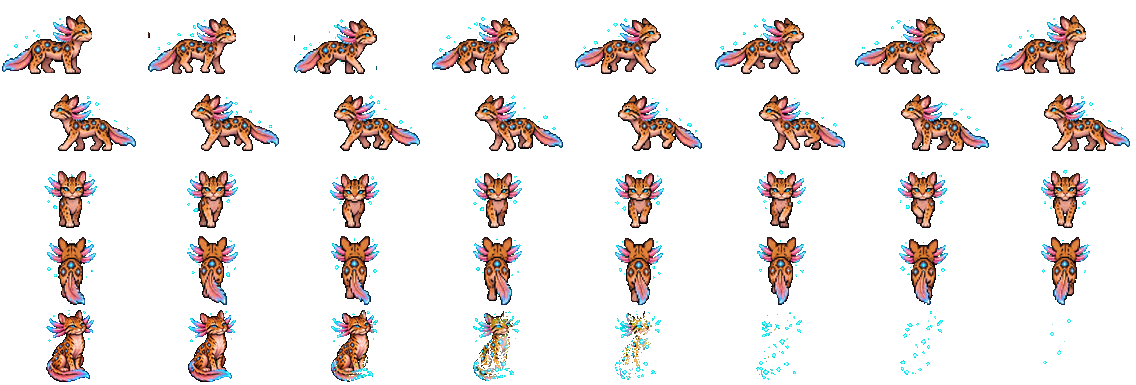
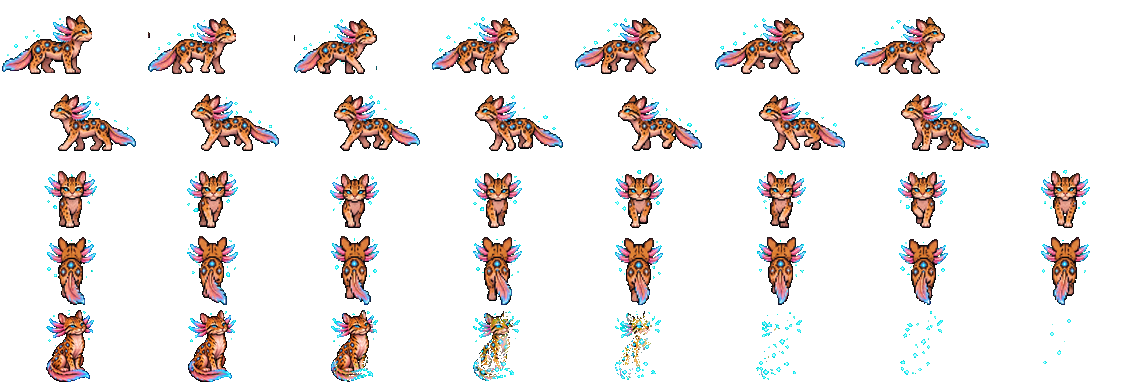
Support 6-frame walk sets alongside Eli's 8
Clips can give a cycle (seconds per loop) instead of fps, so a walk keeps
its pace whatever its frame count. walkClips(frames, cycle) builds the four
walk clips for a sheet in the house layout, and the Chapter 6 characters use
it. The prep script takes a frame count per row and leaves unused cells empty.

Claude-Session: https://claude.ai/code/session_0152bnL1PqBVyUQ9ahW2XuFx

Changed region(s): [[0.8935, 0.2494, 1.0, 0.4052], [0.8627, 0.0312, 0.9551, 0.187]]

diff --git a/src/sprite-definitions.js b/src/sprite-definitions.js
@@ -8,6 +8,13 @@ export const RABBIT_FRAMES=[
  [14,335,34,32],[70,310,33,54],[126,306,32,58],[183,303,30,61],
  [23,373,25,65],[78,373,25,65],[133,373,25,65]
 ];
+// Walk clips for a sheet in the house layout: rows right, left, toward the camera, away, 8 columns wide.
+// frames is how many frames each row holds (Eli has 8; everyone else is drawn with 6). cycle is the seconds per stride
+// loop, so the pace stays the same whatever the frame count. A side row can hold fewer frames than the others.
+export function walkClips(frames,cycle){
+ const rows=Array.isArray(frames)?frames:[frames,frames,frames,frames];
+ return Object.fromEntries(['right','left','down','up'].map((dir,r)=>[`walk:${dir}`,{frames:Array.from({length:rows[r]},(_,i)=>r*8+i),cycle}]));
+}
 export const SPRITES={
  // The second rows are runs, used by the guardian familiars. Both sheets face right; the village creatures stay on idle.
  rimejaw:{asset:'story/rimejaw-sheet.png',chromaKey:'green',frames:[[45,35,410,270],[475,35,410,270],[900,35,410,270],[1320,35,440,270],[10,330,292,225],[302,330,292,225],[598,330,292,225],[886,330,292,225],[1174,330,292,225],[1468,330,292,225]],scale:.27,anchor:[.5,1],offset:[0,12],mirror:'right',animations:{idle:{frames:[0,1,2,3],fps:2},walk:{frames:[4,5,6,7,8,9],fps:9}}},
@@ -35,23 +42,23 @@ export const SPRITES={
  // Made by scripts/prepare-chapter6-sprites.py from art/sprites/. Rows 0-3: walk right, left, toward the camera, away (the house layout).
  'emilia-story':{asset:'story/emilia-sheet.png',frameSize:[72,109],columns:8,scale:.5,anchor:[.5,1],offset:[0,15],fallback:{coat:'#3d5a8a',hair:'#d8d4cc',skin:'#c08a63'},animations:{
   idle:{frames:[16]},'idle:down':{frames:[16]},'idle:up':{frames:[24]},'idle:right':{frames:[0]},'idle:left':{frames:[8]},
-  'walk:right':{frames:[0,1,2,3,4,5,6,7],fps:7},'walk:left':{frames:[8,9,10,11,12,13,14,15],fps:7},'walk:down':{frames:[16,17,18,19,20,21,22,23],fps:7},'walk:up':{frames:[24,25,26,27,28,29,30,31],fps:7}
+  ...walkClips(8,1.1)
  }},
  'mara-story':{asset:'story/mara-sheet.png',frameSize:[88,113],columns:8,scale:.5,anchor:[.5,1],offset:[0,15],fallback:{hair:'#3d2b24',coat:'#6b4b35'},animations:{
   idle:{frames:[16]},'idle:down':{frames:[16]},'idle:up':{frames:[24]},'idle:right':{frames:[0]},'idle:left':{frames:[8]},
-  'walk:right':{frames:[0,1,2,3,4,5,6,7],fps:10},'walk:left':{frames:[8,9,10,11,12,13,14,15],fps:10},'walk:down':{frames:[16,17,18,19,20,21,22,23],fps:10},'walk:up':{frames:[24,25,26,27,28,29,30,31],fps:10}
+  ...walkClips(8,.8)
  }},
  // Row 4 is the beckon strip: arms at his sides (32), folded (34-36), then a come-here wave (37-39). He waits with his arms folded.
  'drayfus-story':{asset:'story/drayfus-sheet.png',frameSize:[114,132],columns:8,scale:.5,anchor:[.5,1],offset:[0,16],fallback:{coat:'#3b3430',hair:'#5d5650',skin:'#b5805e',sword:true},animations:{
   idle:{frames:[35]},'idle:down':{frames:[35]},'idle:up':{frames:[24]},'idle:right':{frames:[0]},'idle:left':{frames:[8]},
   beckon:{frames:[35,36,37,38,39,38,39,38,37,36,35,35,35,35,35,35],fps:6},
-  'walk:right':{frames:[0,1,2,3,4,5,6,7],fps:8},'walk:left':{frames:[8,9,10,11,12,13,14,15],fps:8},'walk:down':{frames:[16,17,18,19,20,21,22,23],fps:8},'walk:up':{frames:[24,25,26,27,28,29,30,31],fps:8}
+  ...walkClips(8,1)
  }},
  // The side rows have 7 frames. Row 4 is the dissolve: sitting with its tail round its paws (32), then breaking into blue motes.
  ocelot:{asset:'story/ocelot-sheet.png',frameSize:[142,77],columns:8,scale:.5,anchor:[.5,1],offset:[0,2],animations:{
   idle:{frames:[32]},'idle:down':{frames:[32]},'idle:up':{frames:[24]},'idle:right':{frames:[0]},'idle:left':{frames:[8]},
   vanish:{frames:[32,33,34,35,36,37,38,39],fps:6,loop:false},
-  'walk:right':{frames:[0,1,2,3,4,5,6],fps:9},'walk:left':{frames:[8,9,10,11,12,13,14],fps:9},'walk:down':{frames:[16,17,18,19,20,21,22,23],fps:9},'walk:up':{frames:[24,25,26,27,28,29,30,31],fps:9}
+  ...walkClips([7,7,8,8],.8)
  }},
  // Original Drive sheet has a green matte. The shared loader removes it once.
  moonfang:{asset:'story/moonfang.png',chromaKey:'green',frames:[[145,10,320,250],[450,10,310,250],[750,10,310,250],[1060,10,330,250],[5,290,255,190],[260,290,255,190],[515,290,255,190],[770,290,255,190],[1020,290,255,190],[1270,290,265,190]],scale:.36,anchor:[.5,1],offset:[0,0],mirror:'right',animations:{idle:{frames:[0,1,2,3],fps:3},run:{frames:[4,5,6,7,8,9],fps:9}}},

diff --git a/tests/sprites.test.js b/tests/sprites.test.js
@@ -1,7 +1,7 @@
 import test from 'node:test';
 import assert from 'node:assert/strict';
 import {readFileSync} from 'node:fs';
-import {SPRITES,PROPS} from '../src/sprite-definitions.js';
+import {SPRITES,PROPS,walkClips} from '../src/sprite-definitions.js';
 import {existsSync} from 'node:fs';
 import {drawSprite,drawEntitySprite,drawProp,frameIndex,frameRect,clearSpriteCache} from '../src/sprites.js';
 import {createNpcs,drawNpc} from '../src/npcs.js';
@@ -100,3 +100,11 @@ test('story NPCs walk with the sheet row for the way they are heading',()=>withI
  assert.deepEqual(crop({animationState:'walk',facingX:-3}),frameRect(d,8,704,452).slice(0,2));
  assert.deepEqual(crop({}),frameRect(d,16,704,452).slice(0,2));
 },[704,452]));
+test('a 6-frame walk keeps the same stride pace as an 8-frame one',()=>{
+ const six={animations:walkClips(6,.8)},eight={animations:walkClips(8,.8)};
+ assert.deepEqual(six.animations['walk:left'].frames,[8,9,10,11,12,13]);assert.deepEqual(eight.animations['walk:up'].frames,[24,25,26,27,28,29,30,31]);
+ // Halfway through the loop each sheet shows its halfway frame, and both loop back at the same moment.
+ assert.equal(frameIndex(six,'walk',.4,{direction:'right'}),3);assert.equal(frameIndex(eight,'walk',.4,{direction:'right'}),4);
+ assert.equal(frameIndex(six,'walk',.8,{direction:'right'}),0);assert.equal(frameIndex(eight,'walk',.8,{direction:'right'}),0);
+ assert.deepEqual(walkClips([7,7,8,8],.8)['walk:left'].frames,[8,9,10,11,12,13,14]);
+});

diff --git a/src/sprites.js b/src/sprites.js
@@ -26,7 +26,8 @@ export function spriteAssetUrl(asset){
 export function frameIndex(definition,state='idle',time=0,{direction,duration}={}){
  const clips=definition.animations||{},clip=clips[`${state}:${direction}`]||clips[state]||clips.idle;
  if(!clip?.frames?.length)return 0;
- const clock=Math.max(0,Number.isFinite(time)?time:0),rate=duration>0?clip.frames.length/duration:clip.fps||1;
+ // cycle is the seconds one loop takes, so a 6-frame and an 8-frame walk keep the same pace.
+ const clock=Math.max(0,Number.isFinite(time)?time:0),n=clip.frames.length,rate=duration>0?n/duration:clip.cycle>0?n/clip.cycle:clip.fps||1;
  const step=Math.floor(clock*rate),index=clip.loop===false?Math.min(clip.frames.length-1,step):step%clip.frames.length;
  return clip.frames[index];
 }

diff --git a/scripts/prepare-chapter6-sprites.py b/scripts/prepare-chapter6-sprites.py
@@ -1,7 +1,10 @@
 """Turn the Chapter 6 character art into game-ready sheets in assets/story/.
 
 Each walk sheet follows the house layout (see prepare-eli-sprites.py): 4 rows (right, left, toward the camera,
-away from the camera) of 8 frames on a #00FF00 matte. Frames are found by the empty gaps between them; a gap
+away from the camera) on a #00FF00 matte. Eli is drawn with 8 frames per direction and everyone else with 6, but
+older sheets with 8 still work: set the count per row in WALK_FRAMES below. Rows are always packed 8 cells wide,
+so a 6-frame sheet leaves the last 2 cells of each row empty, and the definition lists the frames with
+walkClips(frames, cycle) in src/sprite-definitions.js, which keeps the stride pace whatever the count. Frames are found by the empty gaps between them; a gap
 bridged by stray glow motes is split at the emptiest column. Each frame is placed in a uniform cell with its feet
 on a shared baseline and its head and torso centred, at twice the size the game draws it (definitions use scale .5).
 
@@ -18,6 +21,8 @@ from PIL import Image
 import numpy as np
 
 CH='art/sprites/characters/'
+# Frames per row (right, left, toward the camera, away). New non-Eli sheets have 6. Change a row when its art is redrawn.
+WALK_FRAMES={'mara':(8,8,8,8),'emilia':(8,8,8,8),'drayfus':(8,8,8,8),'ocelot':(7,7,8,8)}
 CR='art/sprites/creatures/talking-ocelot/'
 OUT='assets/story/'
 
@@ -73,7 +78,7 @@ def walk(path,counts=(8,8,8,8)):
   for r,count in enumerate(counts):
     y0,y1=edges[r],edges[r+1]
     row=[cut(im,mask,y0,y1,a,b) for a,b in frame_slices(mask,y0,y1,count)]
-    frames+=row+[row[0]]*(8-len(row))
+    frames+=row+[None]*(8-len(row))
   return frames
 
 def strip(path,fixed):
@@ -96,12 +101,16 @@ def strip(path,fixed):
 
 def pack(name,groups):
   """groups: (frames, scale). Every frame shares one cell; feet sit 2 px above the cell's bottom edge."""
-  items=[(img,cx,base,k) for frames,k in groups for img,cx,base in frames]
-  half=max(max(cx,img.width-cx)*k for img,cx,_,k in items);cw=2*int(np.ceil(half))+4
-  above=max(base*k for img,_,base,k in items);below=max((img.height-base)*k for img,_,base,k in items)
+  # Empty cells (rows with fewer than 8 frames) stay transparent.
+  items=[(f[0],f[1],f[2],k) if f else None for frames,k in groups for f in frames]
+  real=[i for i in items if i]
+  half=max(max(cx,img.width-cx)*k for img,cx,_,k in real);cw=2*int(np.ceil(half))+4
+  above=max(base*k for img,_,base,k in real);below=max((img.height-base)*k for img,_,base,k in real)
   ch=int(np.ceil(above+below))+4;foot=ch-2-int(np.ceil(below))
   sheet=Image.new('RGBA',(cw*8,ch*((len(items)+7)//8)),(0,0,0,0))
-  for i,(img,cx,base,k) in enumerate(items):
+  for i,item in enumerate(items):
+    if not item:continue
+    img,cx,base,k=item
     w,h=max(1,round(img.width*k)),max(1,round(img.height*k))
     small=img.resize((w,h),Image.LANCZOS)
     a=np.asarray(small)[...,3];small.putalpha(Image.fromarray(np.where(a>110,255,0).astype(np.uint8)))
@@ -110,17 +119,18 @@ def pack(name,groups):
     sheet.alpha_composite(tile,(ox,oy))
   sheet.save(OUT+name,optimize=True)
   print(f"{OUT}{name}: frameSize [{cw},{ch}], feet {ch-foot}px above the cell bottom")
+  return cw,ch
 
-def height(frames):return np.median([base-body_rows(np.asarray(img)[...,3]>0)[0] for img,_,base in frames])
+def height(frames):return np.median([base-body_rows(np.asarray(img)[...,3]>0)[0] for img,_,base in [f for f in frames if f]])
 
 if __name__=='__main__':
   # On-screen heights in game pixels; Eli stands about 55. Sheets are drawn at scale .5.
   for name,src,tall in [('mara',CH+'mara/mara_walk_sheet.png',54),('emilia',CH+'emilia/emilia_walk_sheet.png',50)]:
-    frames=walk(src);pack(name+'-sheet.png',[(frames,tall*2/height(frames[16:24]))])
-  frames=walk(CH+'drayfus/drayfus_walk_sheet.png');k=62*2/height(frames[16:24])
+    frames=walk(src,WALK_FRAMES[name]);pack(name+'-sheet.png',[(frames,tall*2/height(frames[16:24]))])
+  frames=walk(CH+'drayfus/drayfus_walk_sheet.png',WALK_FRAMES['drayfus']);k=62*2/height(frames[16:24])
   beckon=strip(CH+'drayfus/drayfus_beckon_strip.png',False)
   pack('drayfus-sheet.png',[(frames,k),(beckon,62*2/height(beckon))])
   # The ocelot is cat-sized: about 28 px tall walking side-on, a little more sitting up.
-  frames=walk(CR+'talking-ocelot_walk_sheet.png',(7,7,8,8));k=28*2/height(frames[:7])
+  frames=walk(CR+'talking-ocelot_walk_sheet.png',WALK_FRAMES['ocelot']);k=28*2/height(frames[:7])
   sit=strip(CR+'talking-ocelot_dissolve_strip.png',True)
   pack('ocelot-sheet.png',[(frames,k),(sit,36*2/height(sit[:1]))])

diff --git a/docs/ENTITY-SPRITES.md b/docs/ENTITY-SPRITES.md
@@ -13,7 +13,7 @@ Eli uses `story/eli-sheet.png` (see below). Mara, the other explorers, eel and p
 
 ## Standard for moving entities: the Eli walk set
 
-Every character, NPC, creature and enemy that moves gets the same art and layout as Eli: 16-bit SNES-style pixel art with clean dark outlines and a limited palette, and a 4-direction walk of 8 frames per direction (right, left, toward the camera, away from the camera) on a flat `#00FF00` background with a shared baseline. Extra actions, such as Eli's throw, go in further rows of the same sheet.
+Every character, NPC, creature and enemy that moves gets the same art and layout as Eli: 16-bit SNES-style pixel art with clean dark outlines and a limited palette, and a 4-direction walk (right, left, toward the camera, away from the camera) on a flat `#00FF00` background with a shared baseline. Eli's walk has 8 frames per direction; every other character, NPC, creature and enemy has 6. Sheets are packed 8 cells wide either way, and `walkClips(frames, cycle)` in `src/sprite-definitions.js` builds the clips. `cycle` is the seconds one stride loop takes, so a 6-frame and an 8-frame walk move at the same pace, and older 8-frame NPC sheets keep working. Extra actions, such as Eli's throw, go in further rows of the same sheet.
 
 `scripts/prepare-eli-sprites.py` turns the source sheets in `art/sprites/characters/eli/` into `assets/story/eli-sheet.png`: green removed, every frame in a 126×120 cell, feet on the baseline and head centred. Copy it for the next entity.
 
